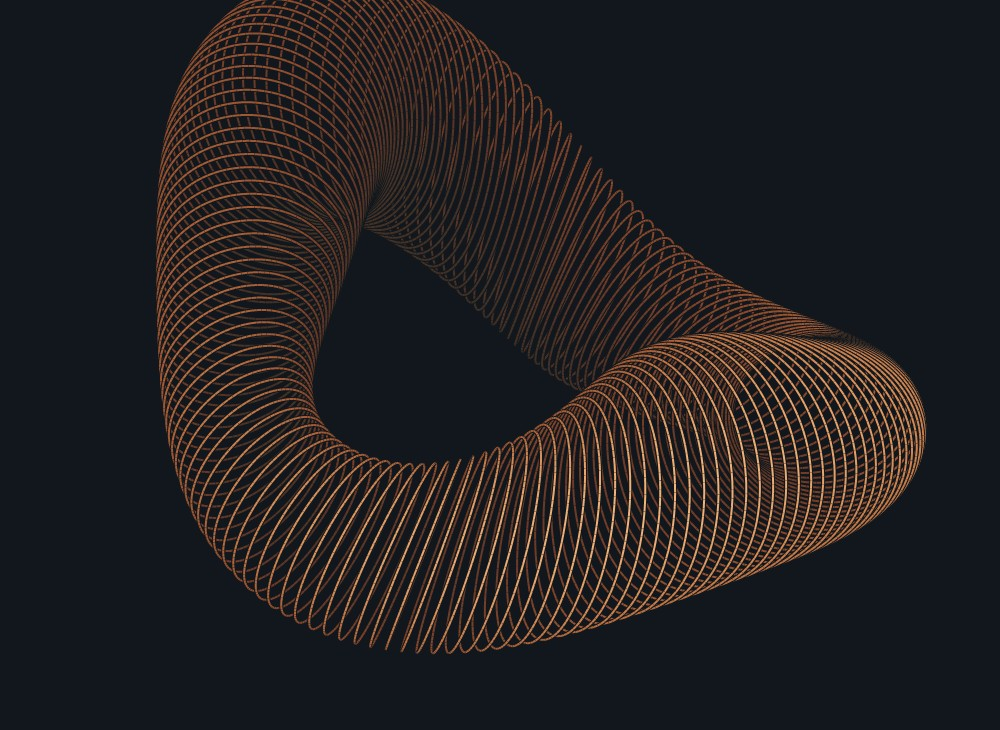
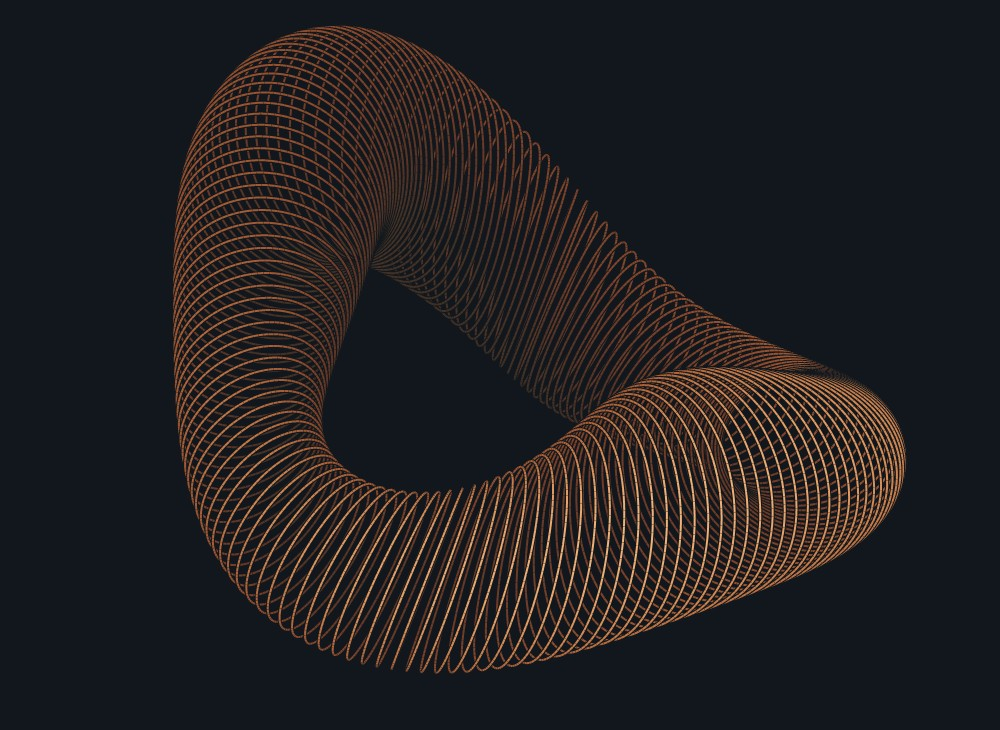
Refine mobile navigation spacing and artwork framing

Changed region(s): [[0.155, 0.0, 0.93, 0.9342]]

diff --git a/src/styles/site.css b/src/styles/site.css
@@ -81,7 +81,7 @@ footer div { gap: 1.2rem; }
   .hero h1 { font-size: clamp(4rem, 15vw, 6.4rem); }
   .plate { max-width: 32rem; width: 100%; margin-inline: auto; }
   .mast-inner { gap: .5rem; }
-  nav { gap: .15rem 1rem; }
+  nav { gap: .15rem .65rem; }
   nav a { font-size: .9rem; padding-block: .35rem; }
   .page-head { padding-top: 2.7rem; }
   .shelf, .archive { padding-block: 2rem; }
